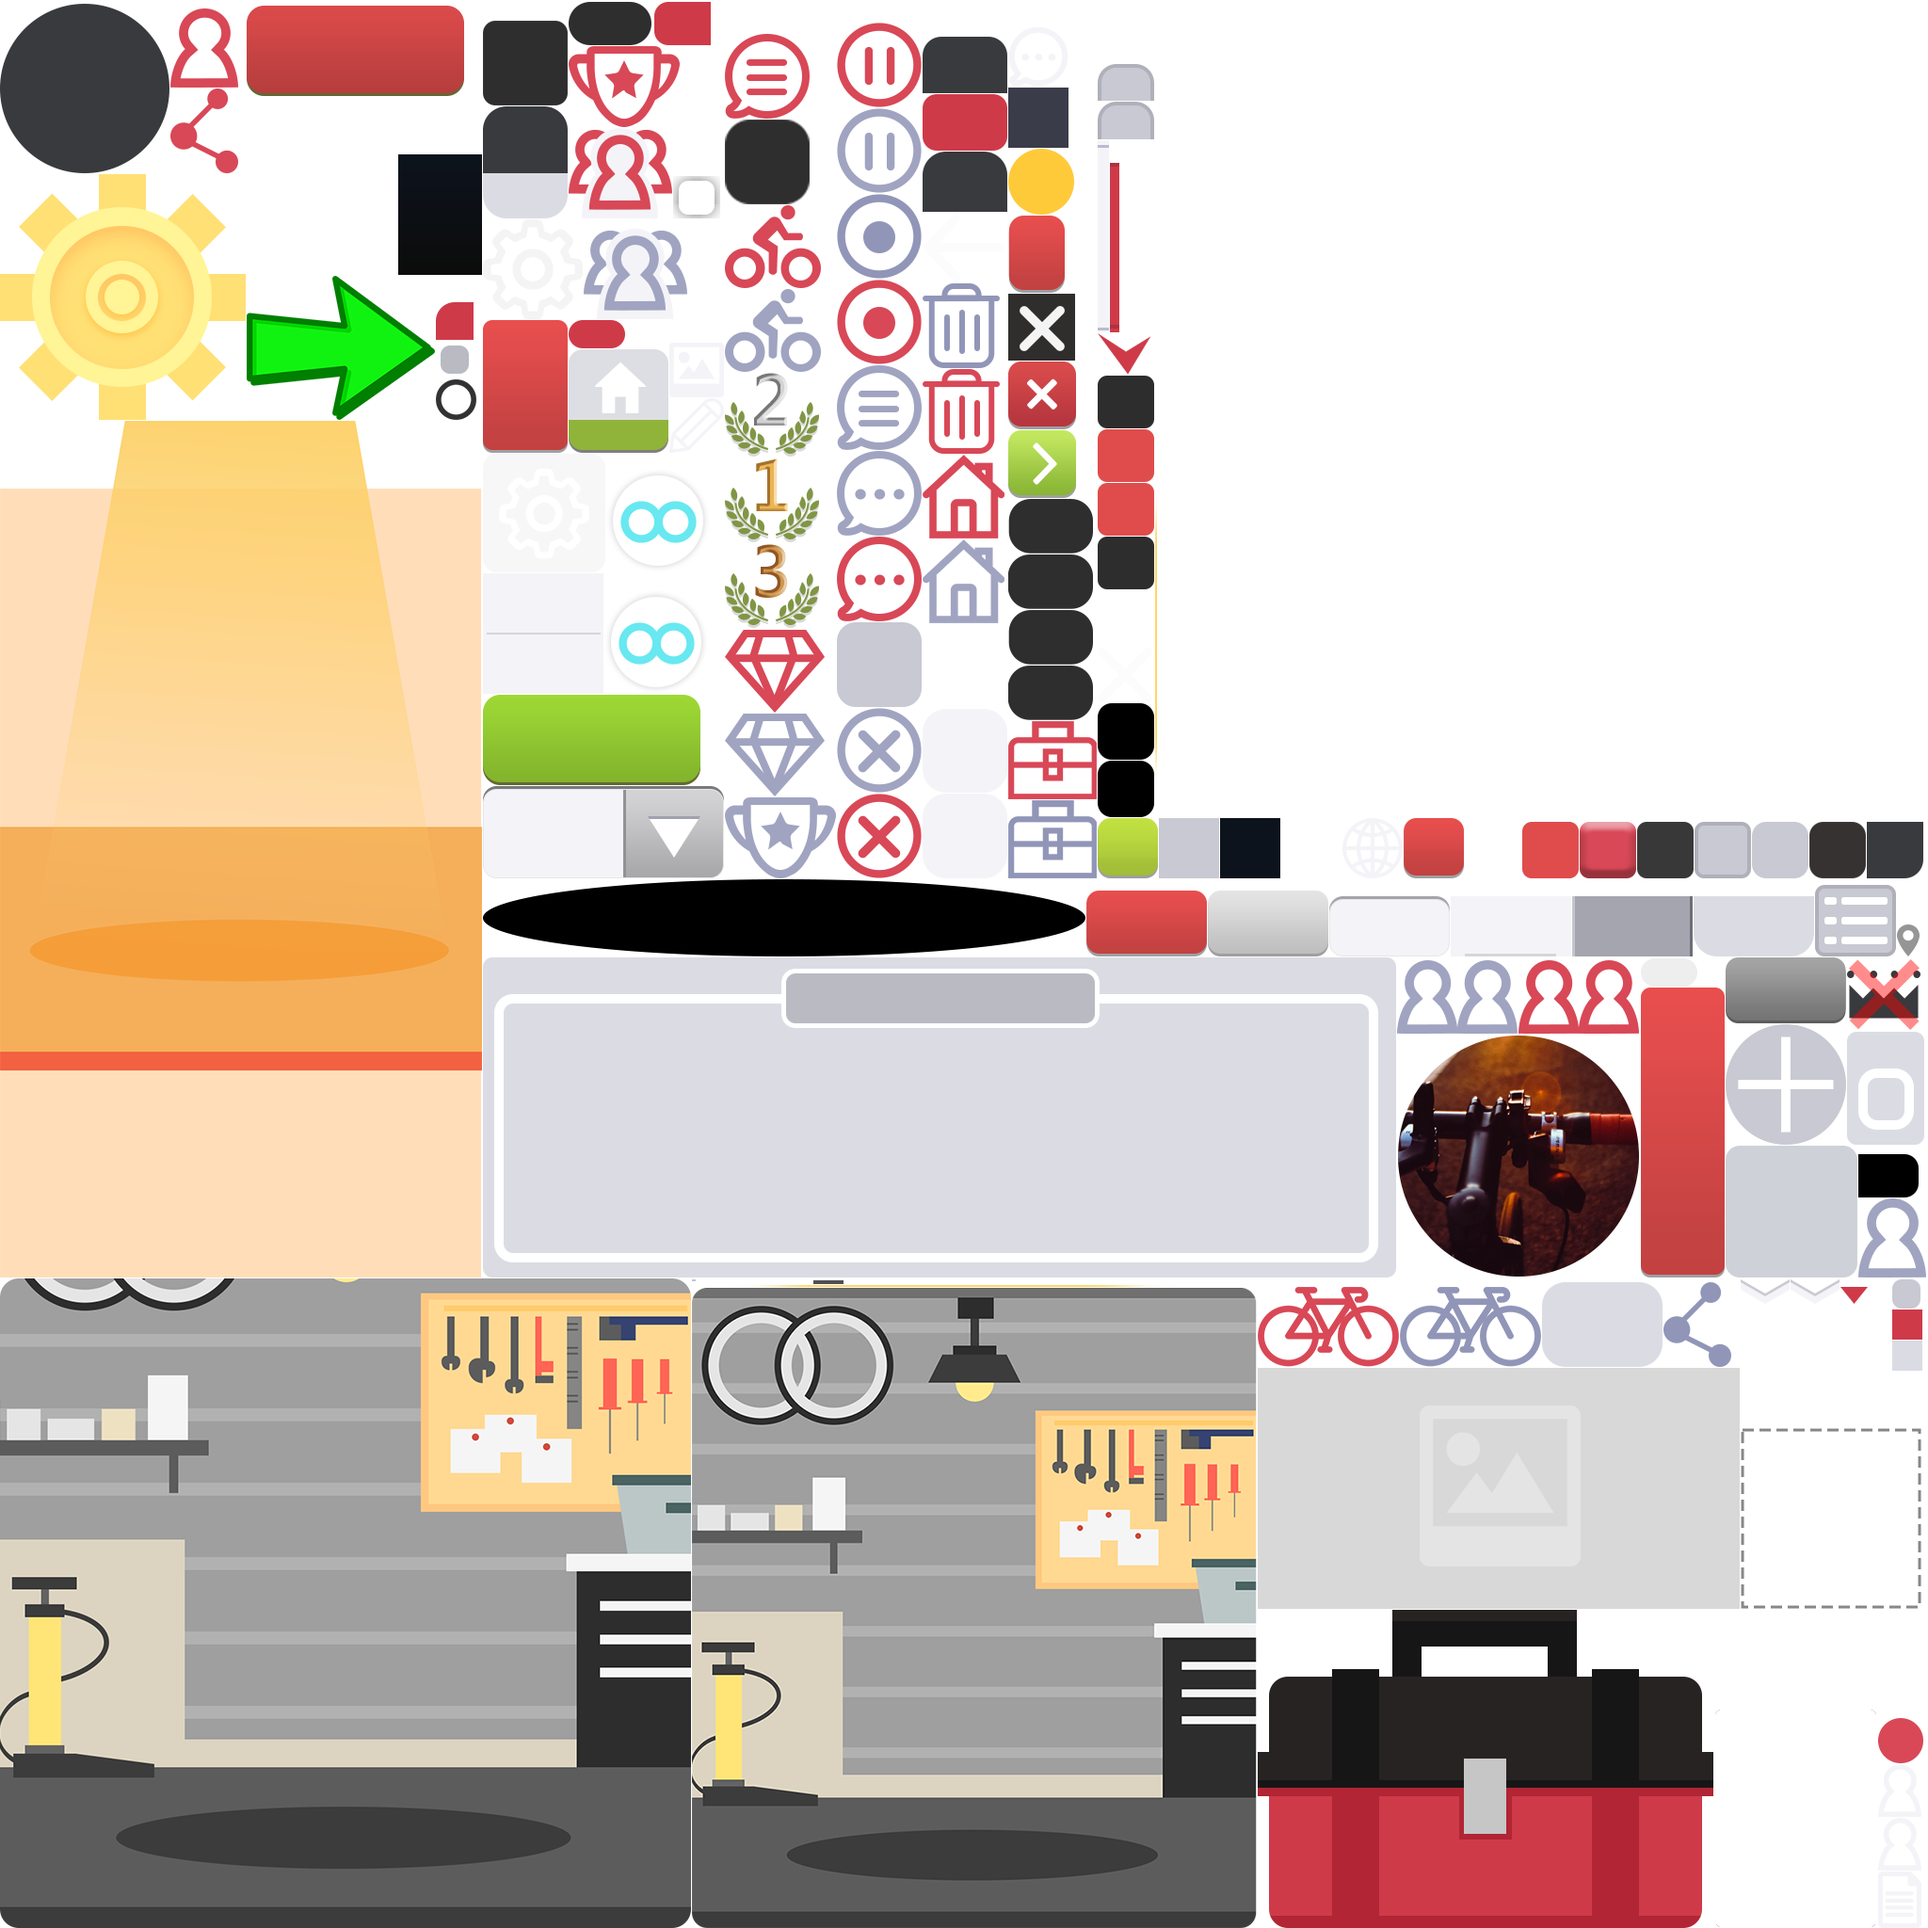
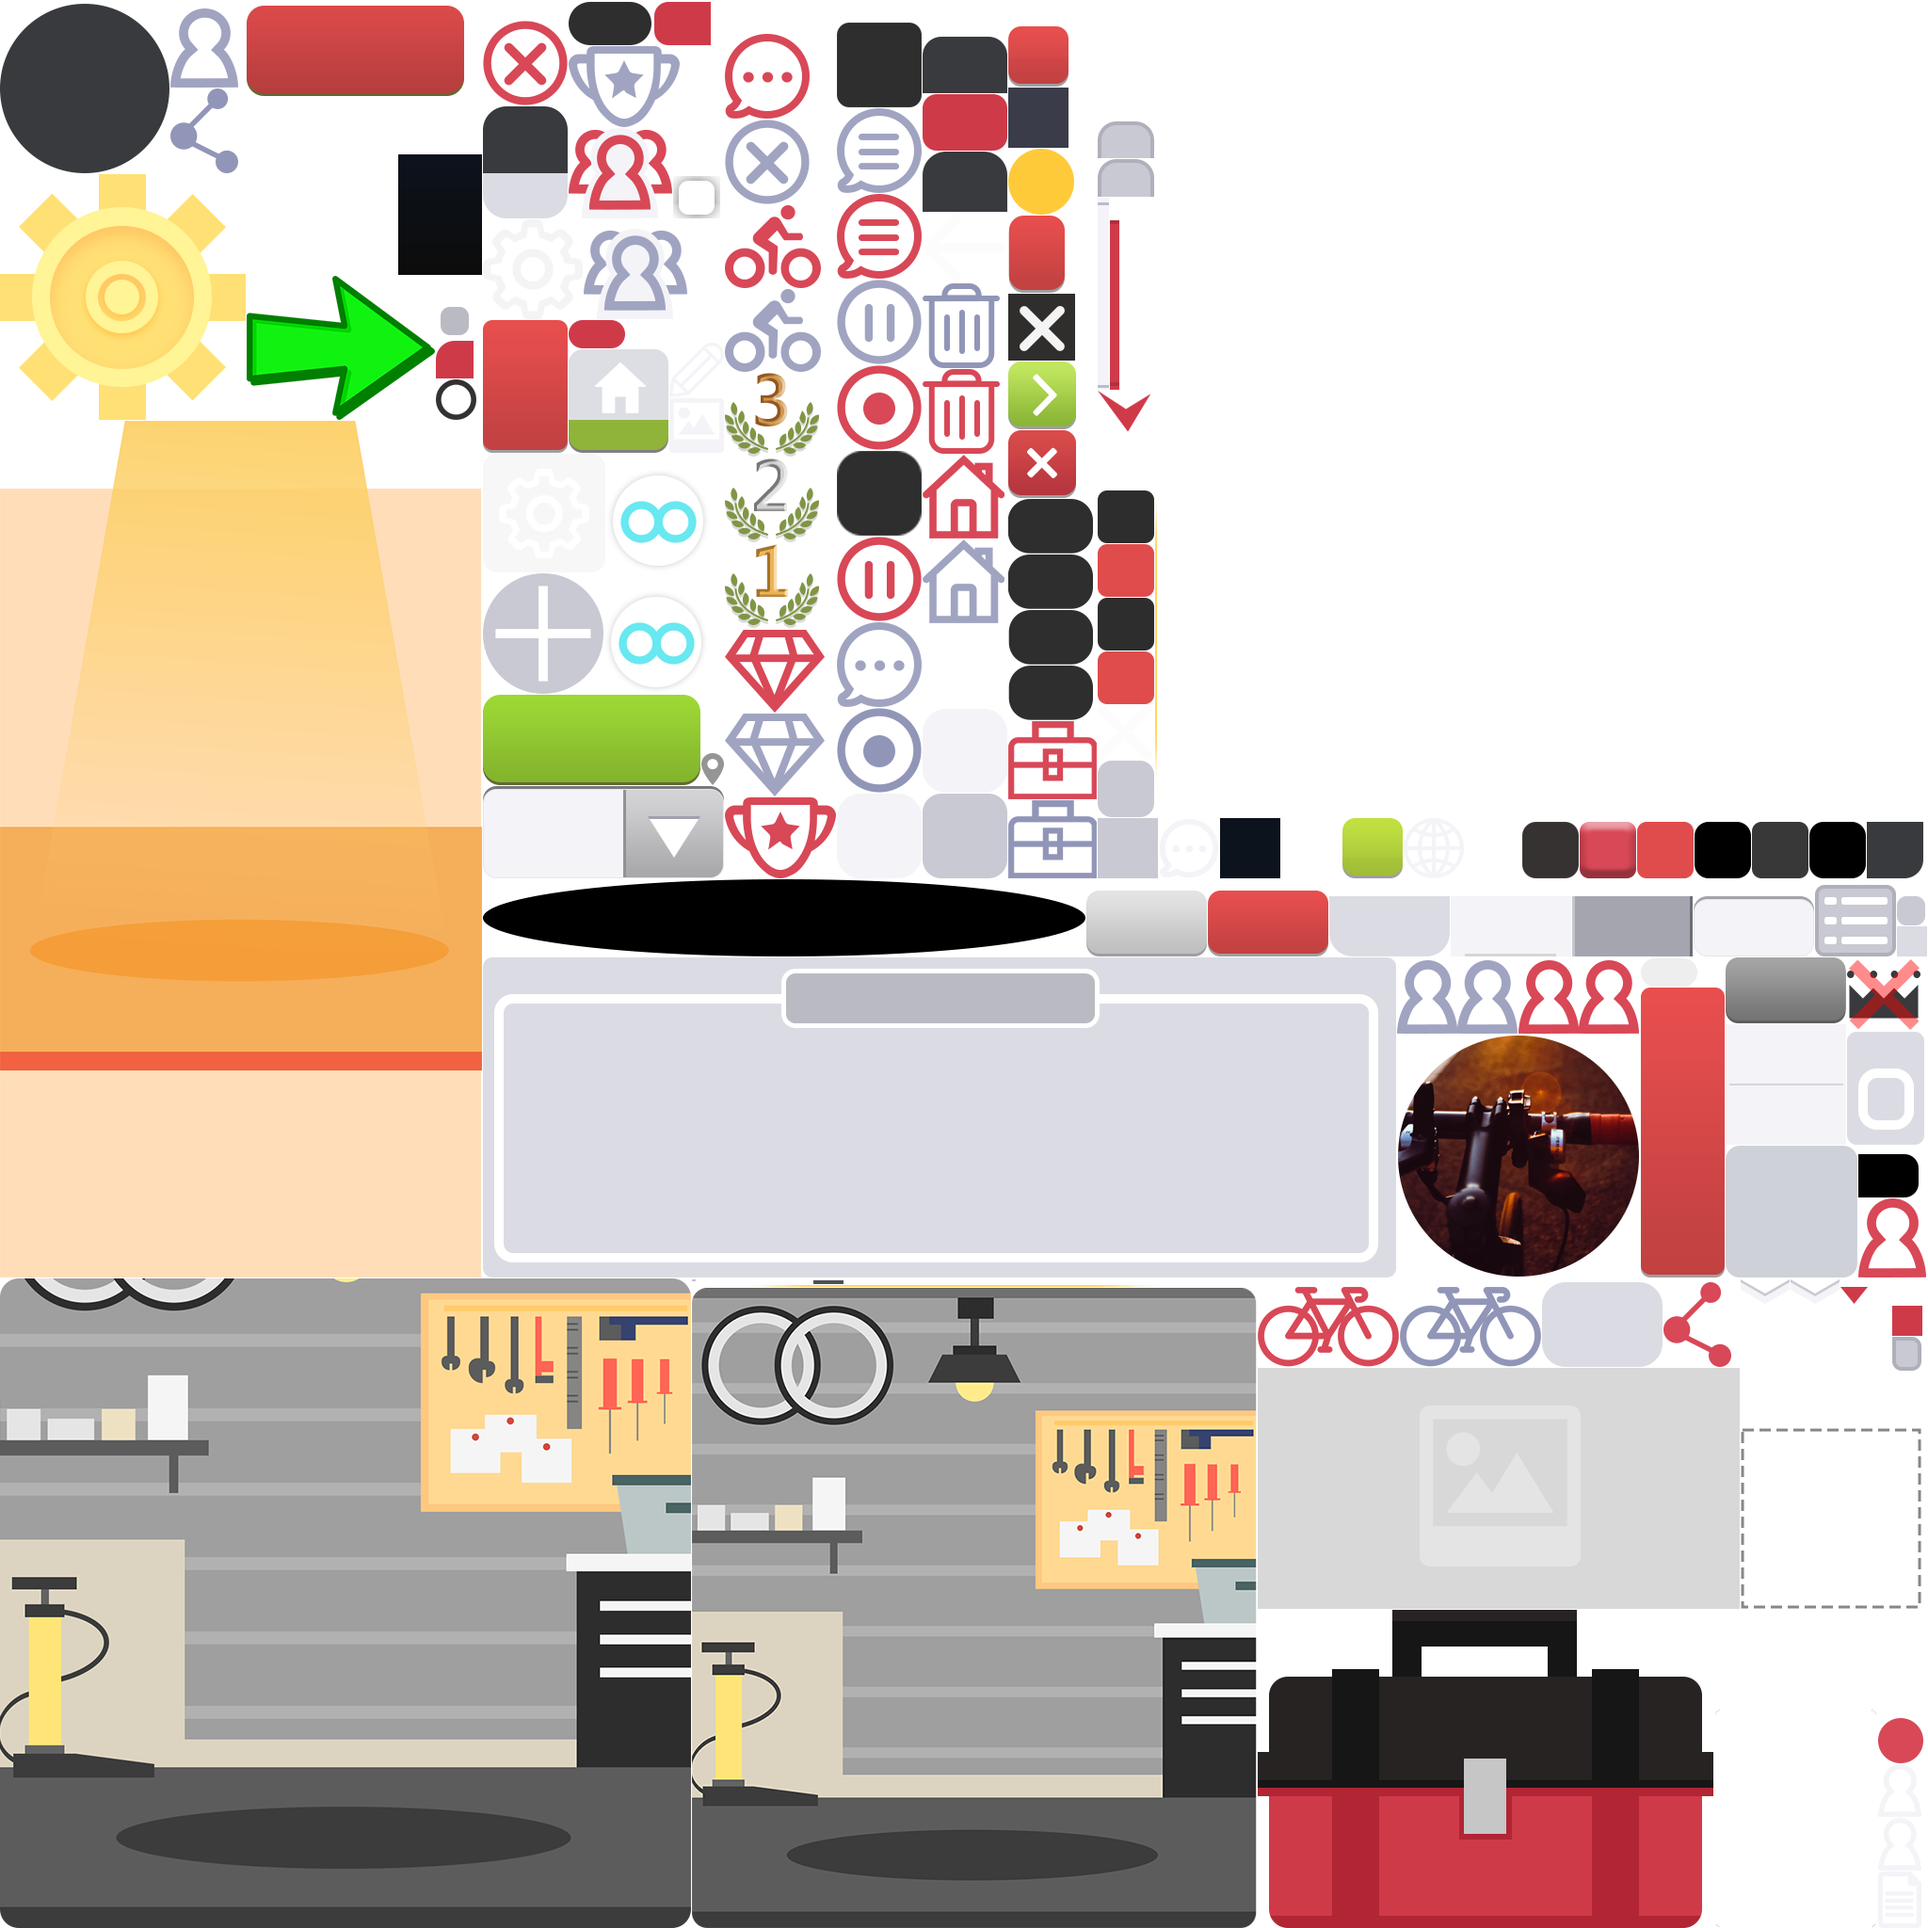
마이홈-차고지 필터링 버튼 기능 추가. 차고지 Toggle 버튼(프레임,휠,엔진) 레이어 수정. 아이템 패널 뒷배경 이미지 교체.

diff --git a/Assets/Scripts/View/Controllers/MainScene/Garage/BicycleViewController.cs b/Assets/Scripts/View/Controllers/MainScene/Garage/BicycleViewController.cs
@@ -1,4 +1,5 @@
-using System.Collections;
+using System;
+using System.Collections;
 using System.Collections.Generic;
 using UnityEngine;
 
@@ -57,7 +58,6 @@ public class BicycleViewController : MonoBehaviour {
         if (bicycleItemStoreEventType == ActionTypes.GARAGE_ITEM_INIT) {
             if (bicycleItemStore.storeStatus == storeStatus.NORMAL) {
                 if(gameObject.activeSelf) {
-                    makeList();
                     if (equipedItemIndex[0] == -1 && equipedItemIndex[1] == -1 && equipedItemIndex[2] == -1) {
                         UISprite sprite = bicycle.transform.Find("Frame").GetComponent<UISprite>();
                         sprite.atlas = bicycleAtlas;
@@ -577,6 +577,10 @@ public class BicycleViewController : MonoBehaviour {
         getItems_act act = ActionCreator.createAction(ActionTypes.GARAGE_ITEM_INIT) as getItems_act;
         act._type = equip_act.type.ITEM;
         gm.gameDispatcher.dispatch(act);
+
+        int index = PlayerPrefs.GetInt("Filter");
+
+        filterSelected(index);
     }
 
     public void onFilterButton(GameObject obj) {
@@ -584,20 +588,30 @@ public class BicycleViewController : MonoBehaviour {
         menu.SetActive(!menu.activeSelf);
     }
 
-    public void filterSelected(GameObject obj) {
-        int index = obj.GetComponent<ButtonIndex>().index;
+    public void filterSelected(object obj) {
+        int index = 0;
+        Type type = obj.GetType();
+
+        if(type == typeof(int)) {
+            index = (int)obj;
+        }
+        else if(type == typeof(GameObject)) {
+            index = ((GameObject)obj).GetComponent<ButtonIndex>().index;
+            ((GameObject)obj).transform.parent.parent.parent.gameObject.SetActive(false);
+        }
         PlayerPrefs.SetInt("Filter", index);
         itemSort act = ActionCreator.createAction(ActionTypes.GARAGE_ITEM_SORT) as itemSort;
         switch (index) {
-            case 0:
+            case 1:
+                Debug.Log("이름순 정렬");
                 act._type = itemSort.type.NAME;
                 break;
-            case 1:
+            case 2:
+                Debug.Log("등급순 정렬");
                 act._type = itemSort.type.GRADE;
                 break;
         }
         gm.gameDispatcher.dispatch(act);
-        obj.transform.parent.parent.parent.gameObject.SetActive(false);
     }
 
     private class Info : MonoBehaviour {

diff --git a/Assets/Scripts/Stores/BicycleItem_Inventory.cs b/Assets/Scripts/Stores/BicycleItem_Inventory.cs
@@ -133,6 +133,7 @@ public class BicycleItem_Inventory : AjwStore {
 
     //아이템 정렬
     private void itemSort(itemSort act) {
+        int index = PlayerPrefs.GetInt("Filter");
         switch(act._type) {
             case global::itemSort.type.NAME:
                 wheelItems.Sort(new SortByName());
